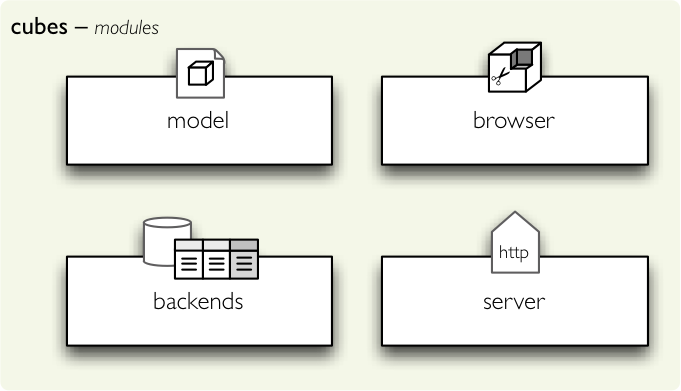
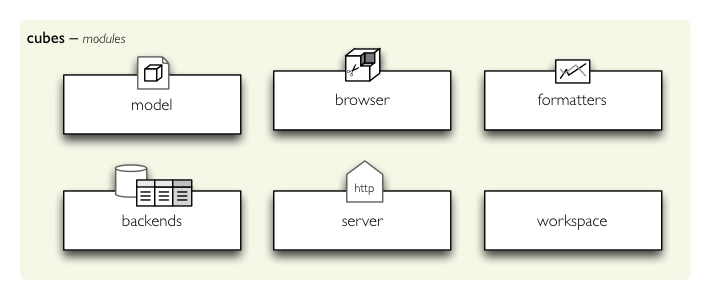
more doc tweaks; added jinja2 soft dependency to docs

diff --git a/cubes/workspace.py b/cubes/workspace.py
@@ -49,11 +49,12 @@ def create_slicer_context(config):
     Returns a dictionary with keys:
 
     * `model` - loaded model (with applied translations)
-    * `translations ` – model translations
+    * `translations` – model translations
     * `locales` - list of model locales
     * `backend_name` - backend name
     * `backend` - backend module
     * `backend_config` - backend configuration dictionary
+
     """
 
     logger = get_logger()

diff --git a/doc/introduction.rst b/doc/introduction.rst
@@ -6,8 +6,8 @@ Why cubes?
 ==========
 
 Purpose is to provide a framework for giving analyst or any application 
-end-user understandable and natural way of presenting the multidimensional 
-data. One of the main features is the logical model, which serves as 
+end-user understandable and natural way of reporting by multidimensional 
+data modeling. One of the main features is the logical model, which serves as
 abstraction over physical data to provide end-user layer.
 
 It is meant to be used by application builders that want to provide analytical
@@ -31,7 +31,7 @@ Features:
 Cube, Dimensions, Facts and Measures
 ====================================
 
-The framework thiks of the data as a cube with multiple dimensions:
+The framework models the data as a cube with multiple dimensions:
 
 .. figure:: images/cube-dims_and_cell.png
     :align: center
@@ -59,16 +59,24 @@ Architecture
 
 The framework is composed of four modules and one command-line tool:
 
-* :mod:`model` - Description of data (*metadata*): dimensions, hierarchies, 
+* **Model** - Description of data (*metadata*): dimensions hierarchies,
   attributes, labels, localizations.
-* :mod:`browser` - Aggregation browsing, slicing-and-dicing, drill-down.
-* :mod:`backends` - Actual aggregation implementation and utility functions.
-* :mod:`server` - WSGI HTTP server for Cubes
+  (see :doc:`docs<model>`, :doc:`reference<api/model>`) 
+* **Browser** - Aggregation browsing, slicing-and-dicing, drill-down.
+  (see :doc:`docs<aggregate>`, :doc:`reference<api/browser>`) 
+* **Backend** - Actual aggregation implementation and utility functions.
+  (see :doc:`docs<backends>`, :doc:`reference<api/backends>`) 
+* **Server** - WSGI HTTP server for Cubes
+  (see :doc:`docs<server>`, :doc:`reference<api/server>`) 
+* **Formatters** - Data formatters
+  (see :doc:`docs<formatters>`, :doc:`reference<api/formatter>`) 
+* **Workspace** – Cubes workspace
+  (see :doc:`reference<api/workspace>`) 
 * :doc:`slicer` - command-line tool
 
 .. figure:: images/arch-modules.png
     :align: center
-    :width: 400px
+    :width: 600px
 
     framework modules
 
@@ -118,3 +126,10 @@ based on the Werkzeug WSGI framework.
 
 More information about the Slicer server requests can be found in the chapter 
 :doc:`server`. See also programming reference of the :mod:`server` module.
+
+
+.. seealso::
+
+    :doc:`schemas`
+        Example database schemas and use patterns with their respective
+        models.

diff --git a/doc/index.rst b/doc/index.rst
@@ -1,9 +1,11 @@
+######################
 Cubes - OLAP Framework
-===================================
+######################
 
-Cubes is a light-weight Python framework and set of tools for Online Analytical 
-Processing (OLAP), multidimensional analysis and browsing of aggregated data. 
-It is part of `Data Brewery`_.
+Cubes is a light-weight Python framework and set of tools for development of
+reporting and analytical applications, Online Analytical Processing (OLAP),
+multidimensional analysis and browsing of aggregated data.  It is part of
+`Data Brewery`_.
 
 .. _Data Brewery: http://databrewery.org/
 

diff --git a/doc/install.rst b/doc/install.rst
@@ -14,6 +14,7 @@ The cubes has optional requirements:
 * `SQLAlchemy`_ for SQL database aggregation browsing backend (version >=
   0.7.4)
 * `Werkzeug`_ for Slicer WSGI server
+* jinja2 for formatters
 
 .. note::
 
@@ -28,7 +29,7 @@ The cubes has optional requirements:
 
 For quick satisfaction of requirements install the packages::
 
-    pip install sqlalchemy werkzeug
+    pip install sqlalchemy werkzeug jinja2
 
 Then install the Cubes::
 

diff --git a/doc/api/workspace.rst b/doc/api/workspace.rst
@@ -11,8 +11,6 @@ other information or data that can be shared between borwsers.
 
 .. autofunction:: cubes.create_slicer_context
 
-.. autofunction:: cubes.backend_aliases
-
 .. autofunction:: cubes.get_backend
 
 .. autoclass:: cubes.Workspace

diff --git a/doc/api/index.rst b/doc/api/index.rst
@@ -5,12 +5,12 @@ Reference
 Contents:
 
 .. toctree::
-	:maxdepth: 2
+    :maxdepth: 2
 
     workspace
-	model
-	browser
+    model
+    browser
     formatter
-	backends
-	server
-	common
+    backends
+    server
+    common
